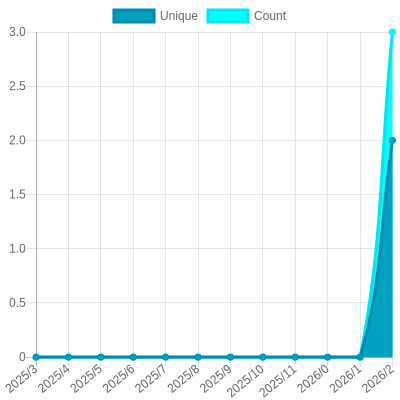
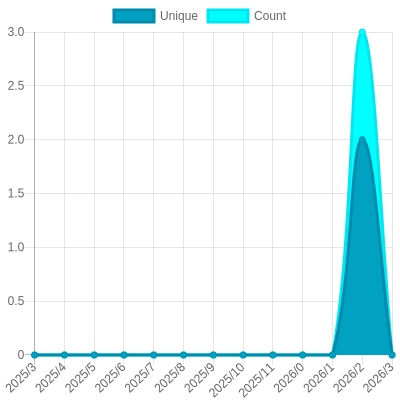
Update views

Changed region(s): [[0.0, 0.06, 0.99, 0.99], [0.0, 0.06, 0.06, 0.09]]

diff --git a/README.md b/README.md
@@ -26,7 +26,7 @@ The project created and maintained by [gayanvoice](https://github.com/gayanvoice
 			</a>
 		</td>
 		<td>
-			2025/3/30 1:00 AM UTC
+			2025/3/31 12:58 AM UTC
 		</td>
 		<td>
 			3
@@ -37,7 +37,7 @@ The project created and maintained by [gayanvoice](https://github.com/gayanvoice
 	</tr>
 </table>
 
-<small><i>Last updated on 2025/4/1 12:23 PM UTC</i></small>
+<small><i>Last updated on 2025/4/2 12:56 AM UTC</i></small>
 
 ## ✂Copy and 📋 Paste
 ### Total Views Badge

diff --git a/readme/954739905/year.md b/readme/954739905/year.md
@@ -20,6 +20,17 @@
 	</tr>
 	<tr>
 		<td>
+			<code>2025/4/1</code>
+		</td>
+		<td>
+			<code>0</code>
+		</td>
+		<td>
+			<code>0</code>
+		</td>
+	</tr>
+	<tr>
+		<td>
 			<code>2025/3/1</code>
 		</td>
 		<td>
@@ -153,7 +164,7 @@
 </table>
 
 </details>
-<small><i>Last updated on 2025/4/1 12:23 PM UTC</i></small>
+<small><i>Last updated on 2025/4/2 12:56 AM UTC</i></small>
 
 ## ✂Copy and 📋 Paste
 ### SVG Badge
